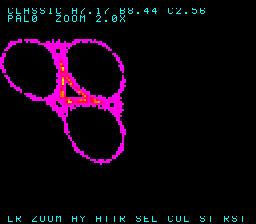
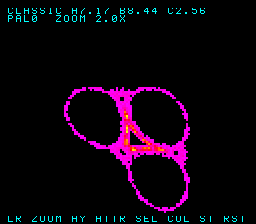
#3 Blossom: centre the attractor in the plot box (Mode 7 scroll bias)
The attractor pivot is the grid centre (64,64 = its geometric centre; the cloud
spans grid ~18..110), but with zero scroll grid-64 landed at screen (64,64) —
left and high, clipping the top. Add PLOT_HBIAS/PLOT_VBIAS = pivot - screen_centre
(-64, -48) so grid-64 sits at screen (128,112), centred between the HUD bars; pan
adds to this and zoom now magnifies around the centred attractor. Display-only
(scroll, not the grid): grid hash 0x9047 + host==ROM gates unchanged. Refresh the
plan's hero screenshots.

Claude-Session: https://claude.ai/code/session_01WvEd363ixdhtgwWEWHf9pF

Changed region(s): [[0.0312, 0.1562, 0.75, 0.9688], [0.0, 0.2188, 0.0312, 0.3438], [0.0312, 0.3438, 0.0938, 0.4062]]

diff --git a/examples/snes/blossom.c b/examples/snes/blossom.c
@@ -39,6 +39,13 @@
 #define ROW_BYTES 1024     // one Mode 7 tile-row of character data (16 tiles * 64 bytes)
 #define PADLOG_N  64       // bounded, fully-logged verifiable window (frames)
 
+// Mode 7 scroll bias that CENTRES the attractor in the plot box. The pivot (m7_set_center) is the grid
+// centre 64,64 = the attractor's geometric centre (orbit starts at 0,0 -> hop_map -> 64,64; the cloud
+// spans grid ~18..110). To land grid 64 at the screen centre (128, 112) the Mode 7 scroll must be
+// pivot - screen_centre. Pan (cx,cy) adds to this; zoom then magnifies around the centred attractor.
+#define PLOT_HBIAS ((int16_t)-64)   // 64 - 128
+#define PLOT_VBIAS ((int16_t)-48)   // 64 - 112  (HUD bars are symmetric, so plot-box centre = screen centre)
+
 #define FAR __attribute__((address_space(2)))
 static FAR uint8_t *const grid = (FAR uint8_t *)0x7E2000u;   // 16 KiB hit grid (the 8bpp source)
 
@@ -166,7 +173,7 @@ int main(void) {
   orbit.x = 0; orbit.y = 0;
   build_palette(v.pal);
   m7_set_matrix(v.zoom, 0x0000, 0x0000, v.zoom);
-  m7_set_scroll(0, 0);
+  m7_set_scroll((uint16_t)PLOT_HBIAS, (uint16_t)PLOT_VBIAS);   // centre the attractor in the plot box
   hud_begin();                            // BG3 text bars + HDMA screen-split (Mode 7 plot box)
   hud_text(HUD_BOT_ROW, 1, "LR ZOOM AY ATTR SEL COL ST RST");   // static control legend
   m7_show();                              // release force-blank; the attractor BLOOMS in live below
@@ -202,7 +209,7 @@ int main(void) {
     dma_chr_to((uint16_t)trow * ROW_BYTES);
     dma_cgram();
     m7_set_matrix(v.zoom, 0x0000, 0x0000, v.zoom);
-    m7_set_scroll((uint16_t)v.cx, (uint16_t)v.cy);
+    m7_set_scroll((uint16_t)(v.cx + PLOT_HBIAS), (uint16_t)(v.cy + PLOT_VBIAS));   // centred + pan
     if (hud_need) {                        // push the rebuilt value bar (vblank: VRAM writable)
       hud_text(HUD_TOP_ROW, 1, hud_row0);
       hud_text((uint8_t)(HUD_TOP_ROW + 1), 1, hud_row1);
